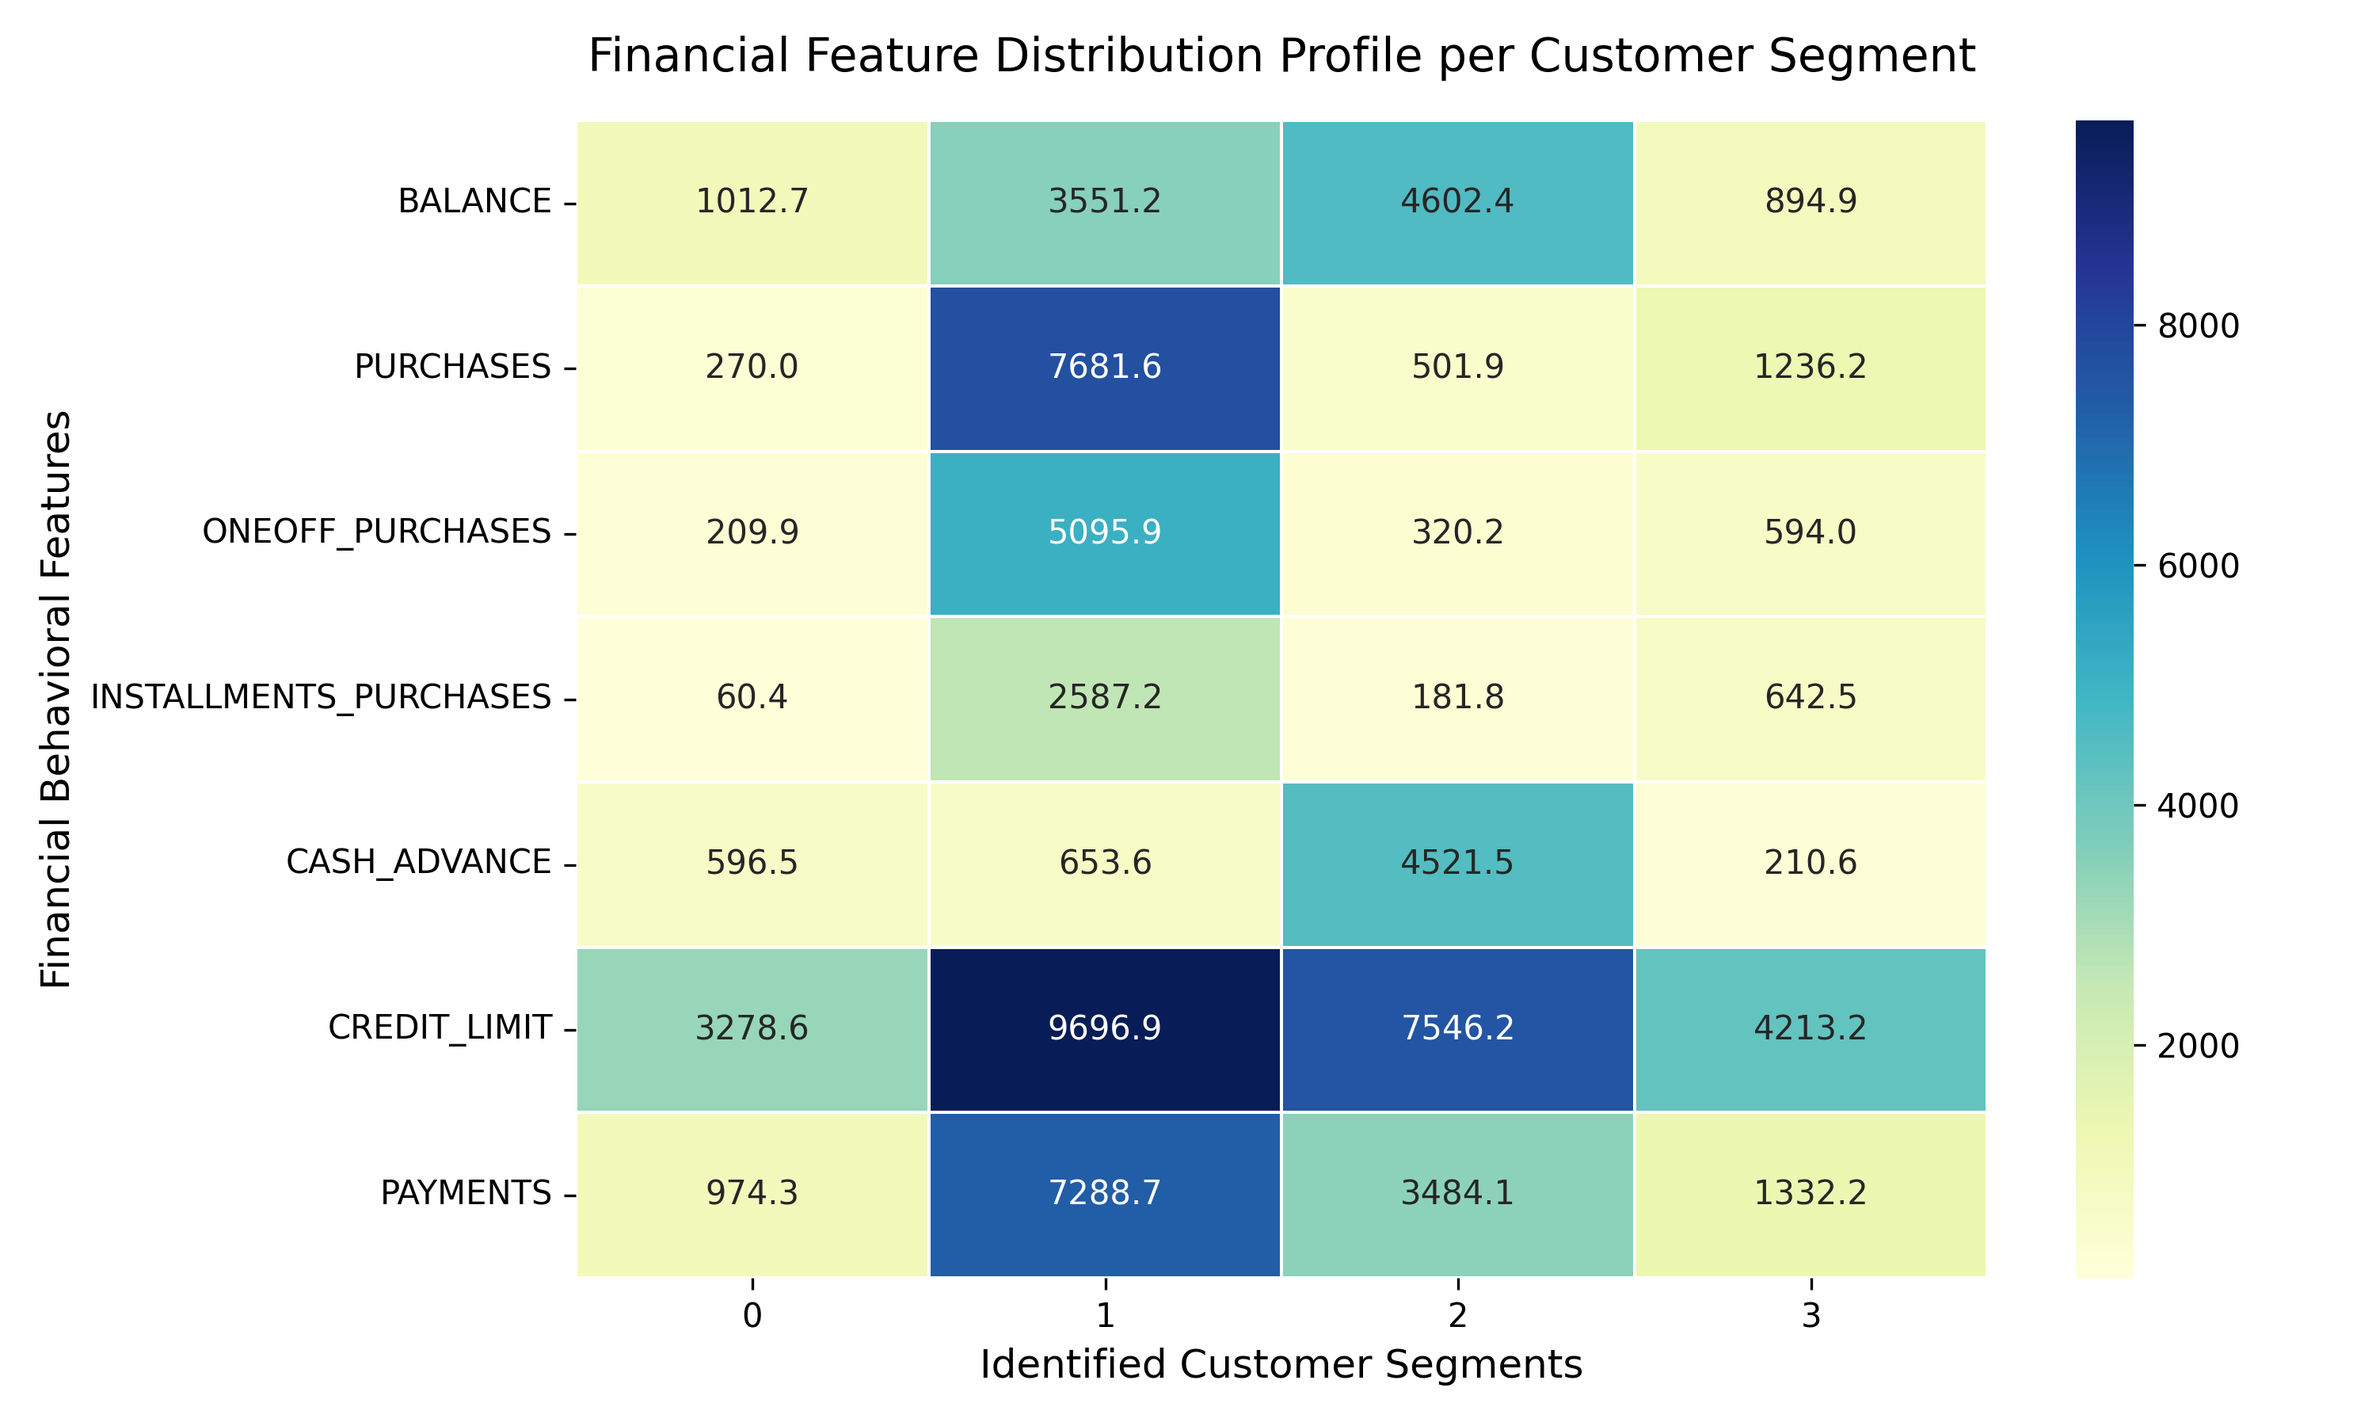
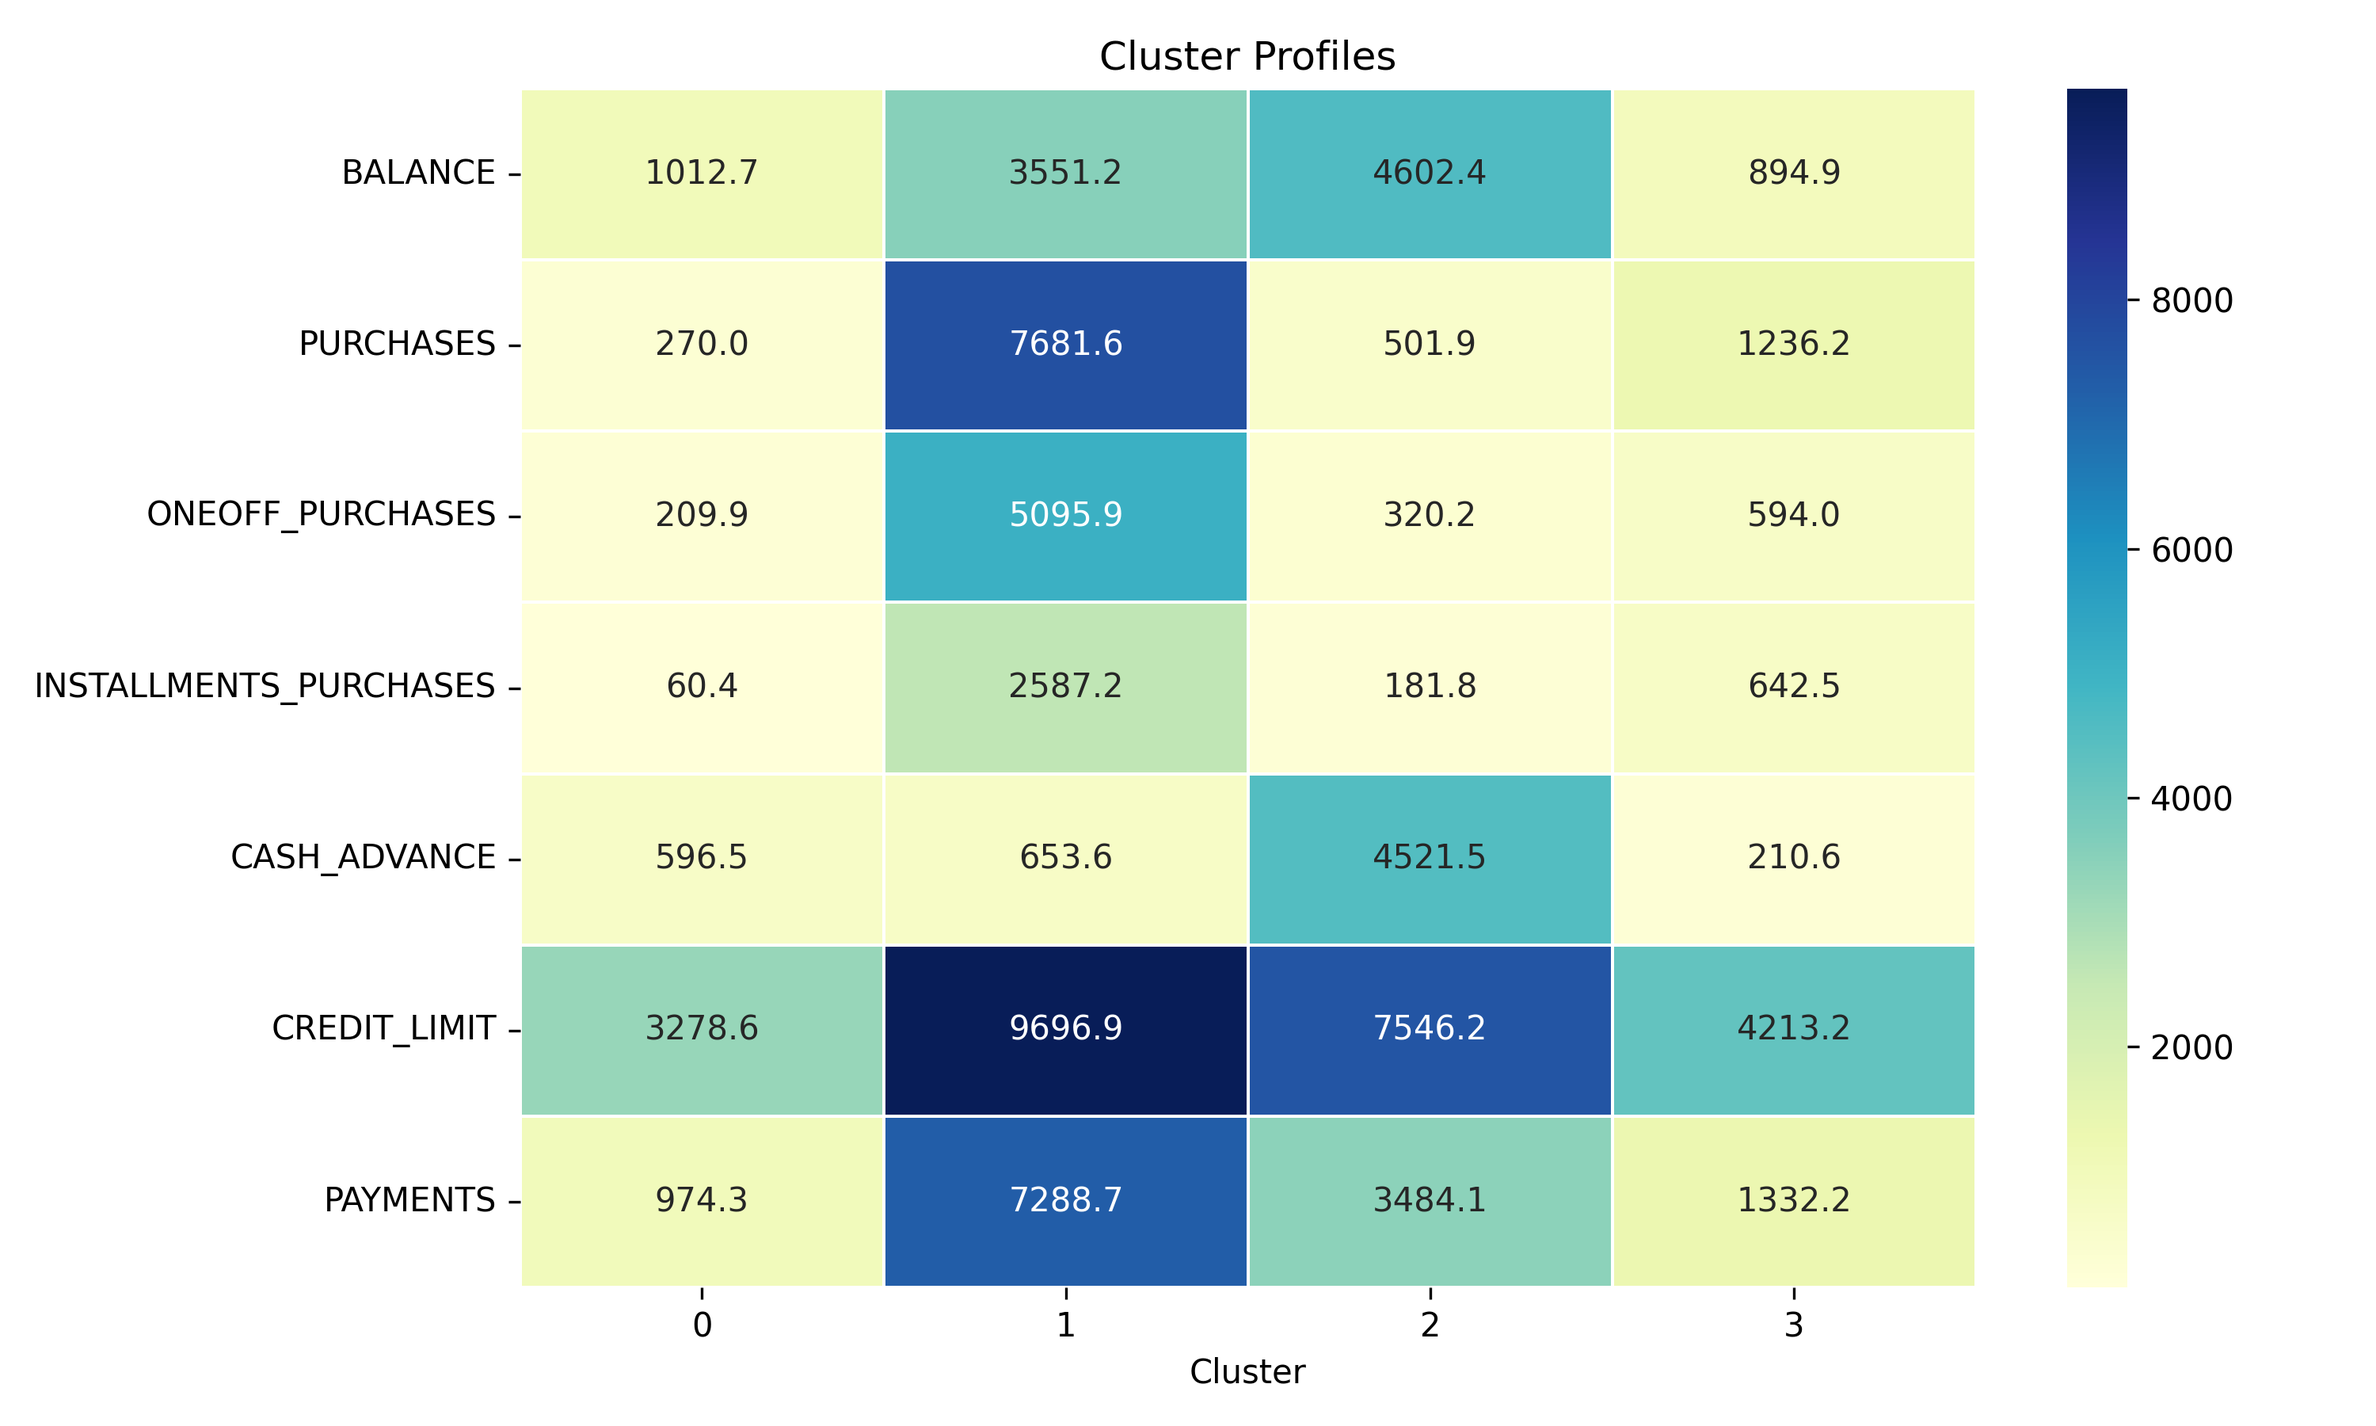
Other changes to the code

diff --git a/main.py b/main.py
@@ -1,181 +1,197 @@
-"""
-Credit Card Customer Segmentation - Exam Project
-Student: Popa Georgiana-Daniela
-Group: AIAC 1
-Description: Unsupervised Learning Pipeline comparing K-Means & Agglomerative Clustering
-"""
+import os 
+import numpy as np 
+import pandas as pd 
+import matplotlib.pyplot as plt 
+import seaborn as sns 
+from sklearn.preprocessing import StandardScaler 
+from sklearn.cluster import KMeans, AgglomerativeClustering 
+from sklearn.metrics import silhouette_score, davies_bouldin_score 
+from sklearn.decomposition import PCA 
+import scipy.cluster.hierarchy as sch 
 
-import os
-import numpy as np
-import pandas as pd
-import matplotlib.pyplot as plt
-import seaborn as sns
-from sklearn.preprocessing import StandardScaler
-from sklearn.cluster import KMeans, AgglomerativeClustering
-from sklearn.metrics import silhouette_score, davies_bouldin_score
-from sklearn.decomposition import PCA
-import scipy.cluster.hierarchy as sch
-
-# Ensure directories exist for saving figures
+# create outputs folder 
 os.makedirs('outputs', exist_ok=True)
-print("=== Step 1: Environment and Dependencies Initialized Successfully ===")
 
-# =====================================================================
-# 1. DATASET LOADING & EXPLORATORY DATA ANALYSIS (EDA) [Slides S4->S5]
-# =====================================================================
-print("\n=== Step 2: Loading Dataset & Running Preprocessing ===")
+# define where the dataset is located 
 data_path = 'data/CC GENERAL.csv'
 
+# make sure the file is actually there before trying to read it
 if not os.path.exists(data_path):
-    raise FileNotFoundError(f"Missing dataset file! Please place 'CC GENERAL.csv' inside the 'data/' folder.")
+    raise FileNotFoundError("Missing dataset file in data/ folder.")
 
+# read the csv file into a pandas dataframe
 df = pd.read_csv(data_path)
-print(f"Dataset Loaded Successfully. Rows: {df.shape[0]}, Features: {df.shape[1]}")
 
-# Display initial data state info
-print("\n--- Missing Values Before Imputation ---")
-print(df.isnull().sum()[df.isnull().sum() > 0])
-
-# Preprocessing: Impute missing entries with the feature median to keep distribution intact
+# fill in missing minimum payments with the median value so we don't lose rows
 df['MINIMUM_PAYMENTS'] = df['MINIMUM_PAYMENTS'].fillna(df['MINIMUM_PAYMENTS'].median())
+
+# do the exact same thing for any missing credit limits
 df['CREDIT_LIMIT'] = df['CREDIT_LIMIT'].fillna(df['CREDIT_LIMIT'].median())
 
-# Drop customer unique identifier as it contains no predictive behavioral patterns
-X_raw = df.drop(columns=['CUST_ID'])
+# drop the customer id column because it's just an identifier, not a behavioral feature
+X = df.drop(columns=['CUST_ID'])
 
-# Feature Scaling: Apply standard normalization (Mean=0, Var=1) since distance metrics 
-# are highly sensitive to magnitude variations across distinct financial metrics.
+# initialize the standard scaler to normalize our features
 scaler = StandardScaler()
-X_scaled = scaler.fit_transform(X_raw)
-print("Data Preprocessing and Feature Standardization Complete.")
 
-# =====================================================================
-# 2. BASELINE MODELING & VALIDATION (K-MEANS) [Slides S6->S8]
-# =====================================================================
-print("\n=== Step 3: Running Baseline K-Means & Elbow Optimization ===")
+# fit the scaler to our data and transform it so everything is on the same mathematical scale
+X_scaled = scaler.fit_transform(X)
+
+# prepare an empty list to store the within-cluster sum of squares (WCSS)
 wcss = []
+
+# we'll test k values from 2 up to 10 to find the elbow
 k_range = range(2, 11)
 
-# Compute Within-Cluster Sum of Squares (WCSS) to locate the geometric 'Elbow'
+# loop through each k value to see which one works best
 for k in k_range:
+    # create a kmeans model for the current k
     kmeans = KMeans(n_clusters=k, init='k-means++', random_state=42, n_init=10)
+    
+    # fit the model to our scaled data
     kmeans.fit(X_scaled)
+    
+    # add the inertia (WCSS) to our list for plotting later
     wcss.append(kmeans.inertia_)
 
-# Generate and Save the Elbow Method Chart
+# set up the figure for our elbow plot
 plt.figure(figsize=(8, 5))
+
+# plot the k values against their corresponding wcss
 plt.plot(k_range, wcss, marker='o', linestyle='--', color='b')
-plt.title('Elbow Method for Optimal K (Baseline Model)', fontsize=14)
-plt.xlabel('Number of Clusters (K)', fontsize=12)
-plt.ylabel('WCSS (Inertia)', fontsize=12)
+
+# add a title to explain the chart
+plt.title('Elbow Method')
+
+# label the x and y axes so it makes sense
+plt.xlabel('Number of Clusters (K)')
+plt.ylabel('WCSS')
+
+# turn on the grid for easier visual reading
 plt.grid(True)
+
+# tidy up the layout so nothing overlaps
 plt.tight_layout()
+
+# save the plot directly to our outputs folder
 plt.savefig('outputs/s6_elbow_plot.png', dpi=300)
-plt.close()
-print("Saved: outputs/s6_elbow_plot.png")
 
-# Instantiate and fit the optimal Baseline Model (Choosing K=4 based on Elbow assessment)
+# close the plot to free up memory
+plt.close()
+
+# based on the elbow plot, 4 looks like a solid choice for k
 optimal_k = 4
-baseline_kmeans = KMeans(n_clusters=optimal_k, init='k-means++', random_state=42, n_init=10)
-kmeans_labels = baseline_kmeans.fit_transform(X_scaled)
-kmeans_cluster_assignments = baseline_kmeans.labels_
 
-# Calculate validation scores for the baseline K-Means algorithm
-kmeans_silhouette = silhouette_score(X_scaled, kmeans_cluster_assignments, sample_size=5000, random_state=42)
-kmeans_db_index = davies_bouldin_score(X_scaled, kmeans_cluster_assignments)
+# set up our final baseline kmeans model using the optimal k=4
+kmeans = KMeans(n_clusters=optimal_k, init='k-means++', random_state=42, n_init=10)
 
-print(f"-> Baseline K-Means (K={optimal_k}) Silhouette Score: {kmeans_silhouette:.4f}")
-print(f"-> Baseline K-Means (K={optimal_k}) Davies-Bouldin Index: {kmeans_db_index:.4f}")
+# fit the model and get the cluster assignments for each customer
+kmeans_labels = kmeans.fit_predict(X_scaled)
 
-# =====================================================================
-# 3. IMPROVED MODEL & COMPARATIVE ANALYSIS [Slides S9->S12]
-# =====================================================================
-print("\n=== Step 4: Running Improved Hierarchical Clustering & Linkage ===")
+# calculate the silhouette score to see how well-separated our clusters are
+# a sample size is used to speed things up since it's computationally heavy
+kmeans_sil = silhouette_score(X_scaled, kmeans_labels, sample_size=5000, random_state=42)
 
-# Generate and Save a Dendrogram using Ward's Linkage
-# We sample 200 rows to maintain clean visibility without cluttering structural branches
+# calculate the davies-bouldin score for another perspective on cluster quality
+kmeans_db = davies_bouldin_score(X_scaled, kmeans_labels)
+
+# set a random seed so our data sampling is reproducible next time we run this
 np.random.seed(42)
-sample_indices = np.random.choice(X_scaled.shape[0], size=200, replace=False)
-X_dendrogram_sample = X_scaled[sample_indices]
 
+# grab 200 random indices from our data for the dendrogram (so the chart isn't a solid block of black lines)
+sample_idx = np.random.choice(X_scaled.shape[0], size=200, replace=False)
+
+# filter our scaled data down using those random indices
+X_sample = X_scaled[sample_idx]
+
+# set up the figure for the dendrogram
 plt.figure(figsize=(10, 6))
-dendrogram = sch.dendrogram(sch.linkage(X_dendrogram_sample, method='ward'))
-plt.title('Hierarchical Clustering Dendrogram (Ward Linkage, Sampled)', fontsize=14)
-plt.xlabel('Customer Data Point Indices', fontsize=12)
-plt.ylabel('Euclidean Distance Threshold', fontsize=12)
+
+# build and plot the dendrogram using the ward linkage method
+sch.dendrogram(sch.linkage(X_sample, method='ward'))
+
+# add a title and label the axes for the dendrogram
+plt.title('Dendrogram')
+plt.xlabel('Customers')
+plt.ylabel('Distance')
+
+# tidy up the layout
 plt.tight_layout()
+
+# save the dendrogram plot
 plt.savefig('outputs/s9_dendrogram.png', dpi=300)
+
+# close the plot
 plt.close()
-print("Saved: outputs/s9_dendrogram.png")
 
-# Fit the Agglomerative Hierarchical Clustering Model
-hierarchical_model = AgglomerativeClustering(n_clusters=optimal_k, metric='euclidean', linkage='ward')
-hierarchical_labels = hierarchical_model.fit_predict(X_scaled)
+# set up our improved model: agglomerative hierarchical clustering using the same optimal k=4
+hc = AgglomerativeClustering(n_clusters=optimal_k, metric='euclidean', linkage='ward')
 
-# Calculate validation scores for the improved hierarchical model
-hierarchical_silhouette = silhouette_score(X_scaled, hierarchical_labels, sample_size=5000, random_state=42)
-hierarchical_db_index = davies_bouldin_score(X_scaled, hierarchical_labels)
+# fit the model and grab the cluster labels
+hc_labels = hc.fit_predict(X_scaled)
 
-print(f"-> Hierarchical Model Silhouette Score: {hierarchical_silhouette:.4f}")
-print(f"-> Hierarchical Model Davies-Bouldin Index: {hierarchical_db_index:.4f}")
+# calculate the silhouette score for the hierarchical model
+hc_sil = silhouette_score(X_scaled, hc_labels, sample_size=5000, random_state=42)
 
-# =====================================================================
-# 4. DIMENSIONALITY REDUCTION & VISUALIZATION [Slides S13->S14]
-# =====================================================================
-print("\n=== Step 5: Dimensionality Reduction via PCA & Final Profiles ===")
+# calculate the davies-bouldin score for the hierarchical model
+hc_db = davies_bouldin_score(X_scaled, hc_labels)
 
-# Reduce 17 dimensional space down to 2 principal components for scatter plot visualization
+# set up pca to reduce our 17 features down to just 2 dimensions so we can visualize it on a flat screen
 pca = PCA(n_components=2, random_state=42)
+
+# apply pca to transform our scaled data into the 2d space
 X_pca = pca.fit_transform(X_scaled)
 
-# Create a clear side-by-side cluster distribution chart
+# create a side-by-side subplot setup
 fig, axes = plt.subplots(1, 2, figsize=(16, 6))
 
-# Plot K-Means Clusters
-sns.scatterplot(x=X_pca[:, 0], y=X_pca[:, 1], hue=kmeans_cluster_assignments, palette='viridis', alpha=0.6, ax=axes[0])
-axes[0].set_title(f'K-Means Space Distribution (K={optimal_k})', fontsize=14)
-axes[0].set_xlabel('Principal Component 1', fontsize=11)
-axes[0].set_ylabel('Principal Component 2', fontsize=11)
-axes[0].legend(title='Clusters')
+# draw a scatter plot for the kmeans clusters on the left side
+sns.scatterplot(x=X_pca[:, 0], y=X_pca[:, 1], hue=kmeans_labels, palette='viridis', alpha=0.6, ax=axes[0])
+axes[0].set_title('K-Means Clusters')
 
-# Plot Hierarchical Clusters
-sns.scatterplot(x=X_pca[:, 0], y=X_pca[:, 1], hue=hierarchical_labels, palette='plasma', alpha=0.6, ax=axes[1])
-axes[1].set_title('Hierarchical Space Distribution (Ward Linkage)', fontsize=14)
-axes[1].set_xlabel('Principal Component 1', fontsize=11)
-axes[1].set_ylabel('Principal Component 2', fontsize=11)
-axes[1].legend(title='Clusters')
+# draw a scatter plot for the hierarchical clusters on the right side
+sns.scatterplot(x=X_pca[:, 0], y=X_pca[:, 1], hue=hc_labels, palette='plasma', alpha=0.6, ax=axes[1])
+axes[1].set_title('Hierarchical Clusters')
 
-plt.suptitle('Comparison of Customer Segments in 2D PCA Space', fontsize=16, fontweight='bold')
+# tidy up the layout for the side-by-side plots
 plt.tight_layout()
+
+# save the final pca comparison plot
 plt.savefig('outputs/s13_pca_comparison.png', dpi=300)
+
+# close the plot
 plt.close()
-print("Saved: outputs/s13_pca_comparison.png")
 
-# Group original dataset features by K-Means labels to extract business personas
-df['Cluster'] = kmeans_cluster_assignments
-profile_features = ['BALANCE', 'PURCHASES', 'ONEOFF_PURCHASES', 'INSTALLMENTS_PURCHASES', 'CASH_ADVANCE', 'CREDIT_LIMIT', 'PAYMENTS']
-cluster_profiles = df.groupby('Cluster')[profile_features].mean()
+# add the kmeans cluster labels back to our original dataframe so we can profile them in human terms
+df['Cluster'] = kmeans_labels
 
-# Export a cluster distribution heat map showing feature deviations across segments
+# list the key business features we want to look at for our cluster profiles
+features = ['BALANCE', 'PURCHASES', 'ONEOFF_PURCHASES', 'INSTALLMENTS_PURCHASES', 
+            'CASH_ADVANCE', 'CREDIT_LIMIT', 'PAYMENTS']
+
+# group by cluster and calculate the average value of each feature
+profiles = df.groupby('Cluster')[features].mean()
+
+# set up a figure for our final heatmap
 plt.figure(figsize=(10, 6))
-sns.heatmap(cluster_profiles.T, annot=True, fmt=".1f", cmap="YlGnBu", linewidths=.5)
-plt.title('Financial Feature Distribution Profile per Customer Segment', fontsize=14, pad=15)
-plt.ylabel('Financial Behavioral Features', fontsize=12)
-plt.xlabel('Identified Customer Segments', fontsize=12)
-plt.tight_layout()
-plt.savefig('outputs/s14_cluster_profiles.png', dpi=300)
-plt.close()
-print("Saved: outputs/s14_cluster_profiles.png")
 
-# =====================================================================
-# PRINT COMPLETE PERFORMANCE REPORT SUMMARY
-# =====================================================================
-print("\n" + "="*55)
-print("        FINAL PRESENTATION METRIC SUMMARY REPORT        ")
-print("="*55)
-print(f"{'Metric Used':<25} | {'Baseline (K-Means)':<20} | {'Hierarchical':<15}")
-print("-"*55)
-print(f"{'Silhouette Score (↑)':<25} | {kmeans_silhouette:<20.4f} | {hierarchical_silhouette:<15.4f}")
-print(f"{'Davies-Bouldin Index (↓)':<25} | {kmeans_db_index:<20.4f} | {hierarchical_db_index:<15.4f}")
-print("="*55)
-print("Pipeline complete. All graphics are generated in the 'outputs/' folder for your slides.")
+# draw a heatmap to visually show the average feature values per cluster
+sns.heatmap(profiles.T, annot=True, fmt=".1f", cmap="YlGnBu", linewidths=.5)
+
+# add a title to the heatmap
+plt.title('Cluster Profiles')
+
+# tidy up the layout
+plt.tight_layout()
+
+# save the heatmap plot
+plt.savefig('outputs/s14_cluster_profiles.png', dpi=300)
+
+# close the plot
+plt.close()
+
+# Finally, print out a quick summary to the console so we know it finished and can see the scores
+print("=== Final Evaluation ===")
+print(f"K-Means (k={optimal_k})      - Silhouette: {kmeans_sil:.4f}, Davies-Bouldin: {kmeans_db:.4f}")
+print(f"Hierarchical (k={optimal_k}) - Silhouette: {hc_sil:.4f}, Davies-Bouldin: {hc_db:.4f}")
+print("All pipeline steps complete. Output plots saved to the 'outputs' directory.")
